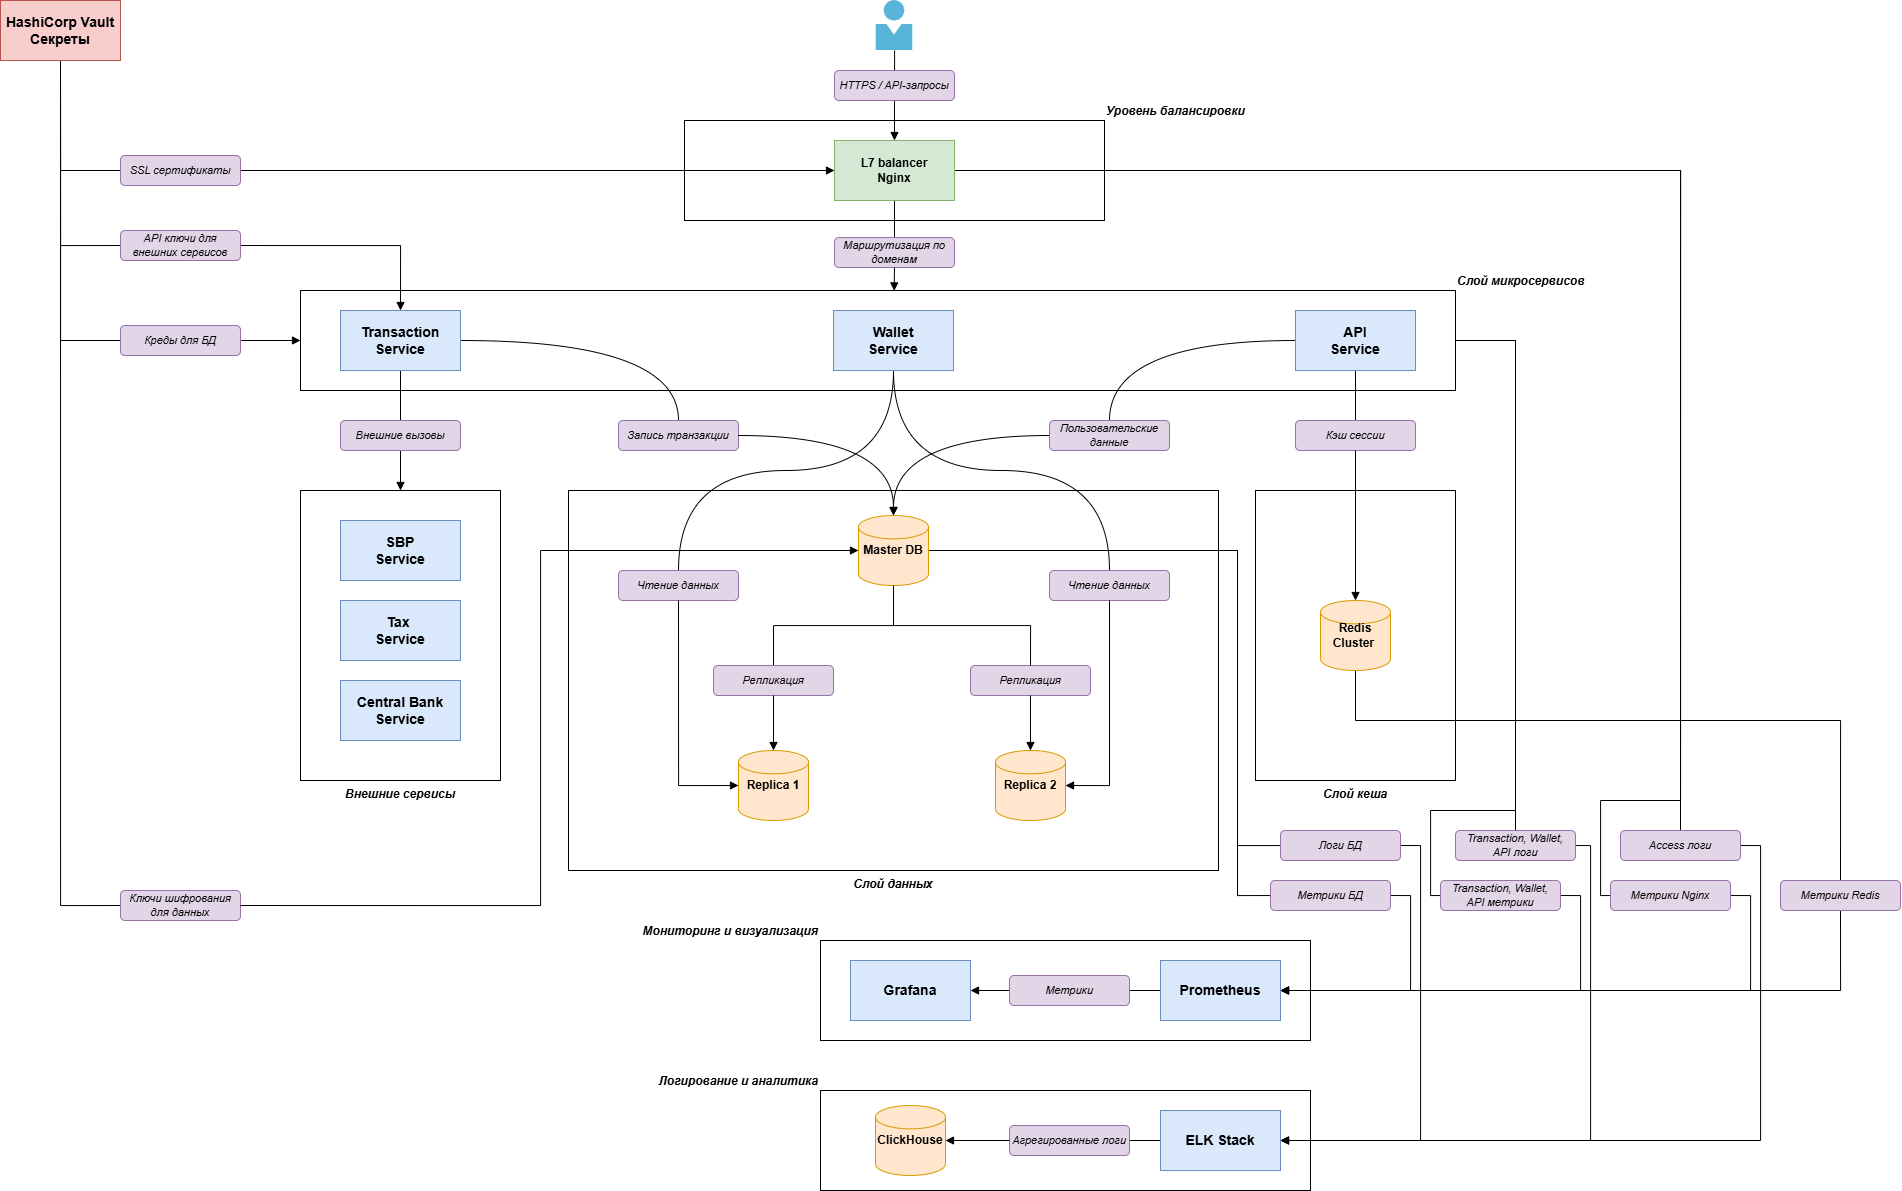
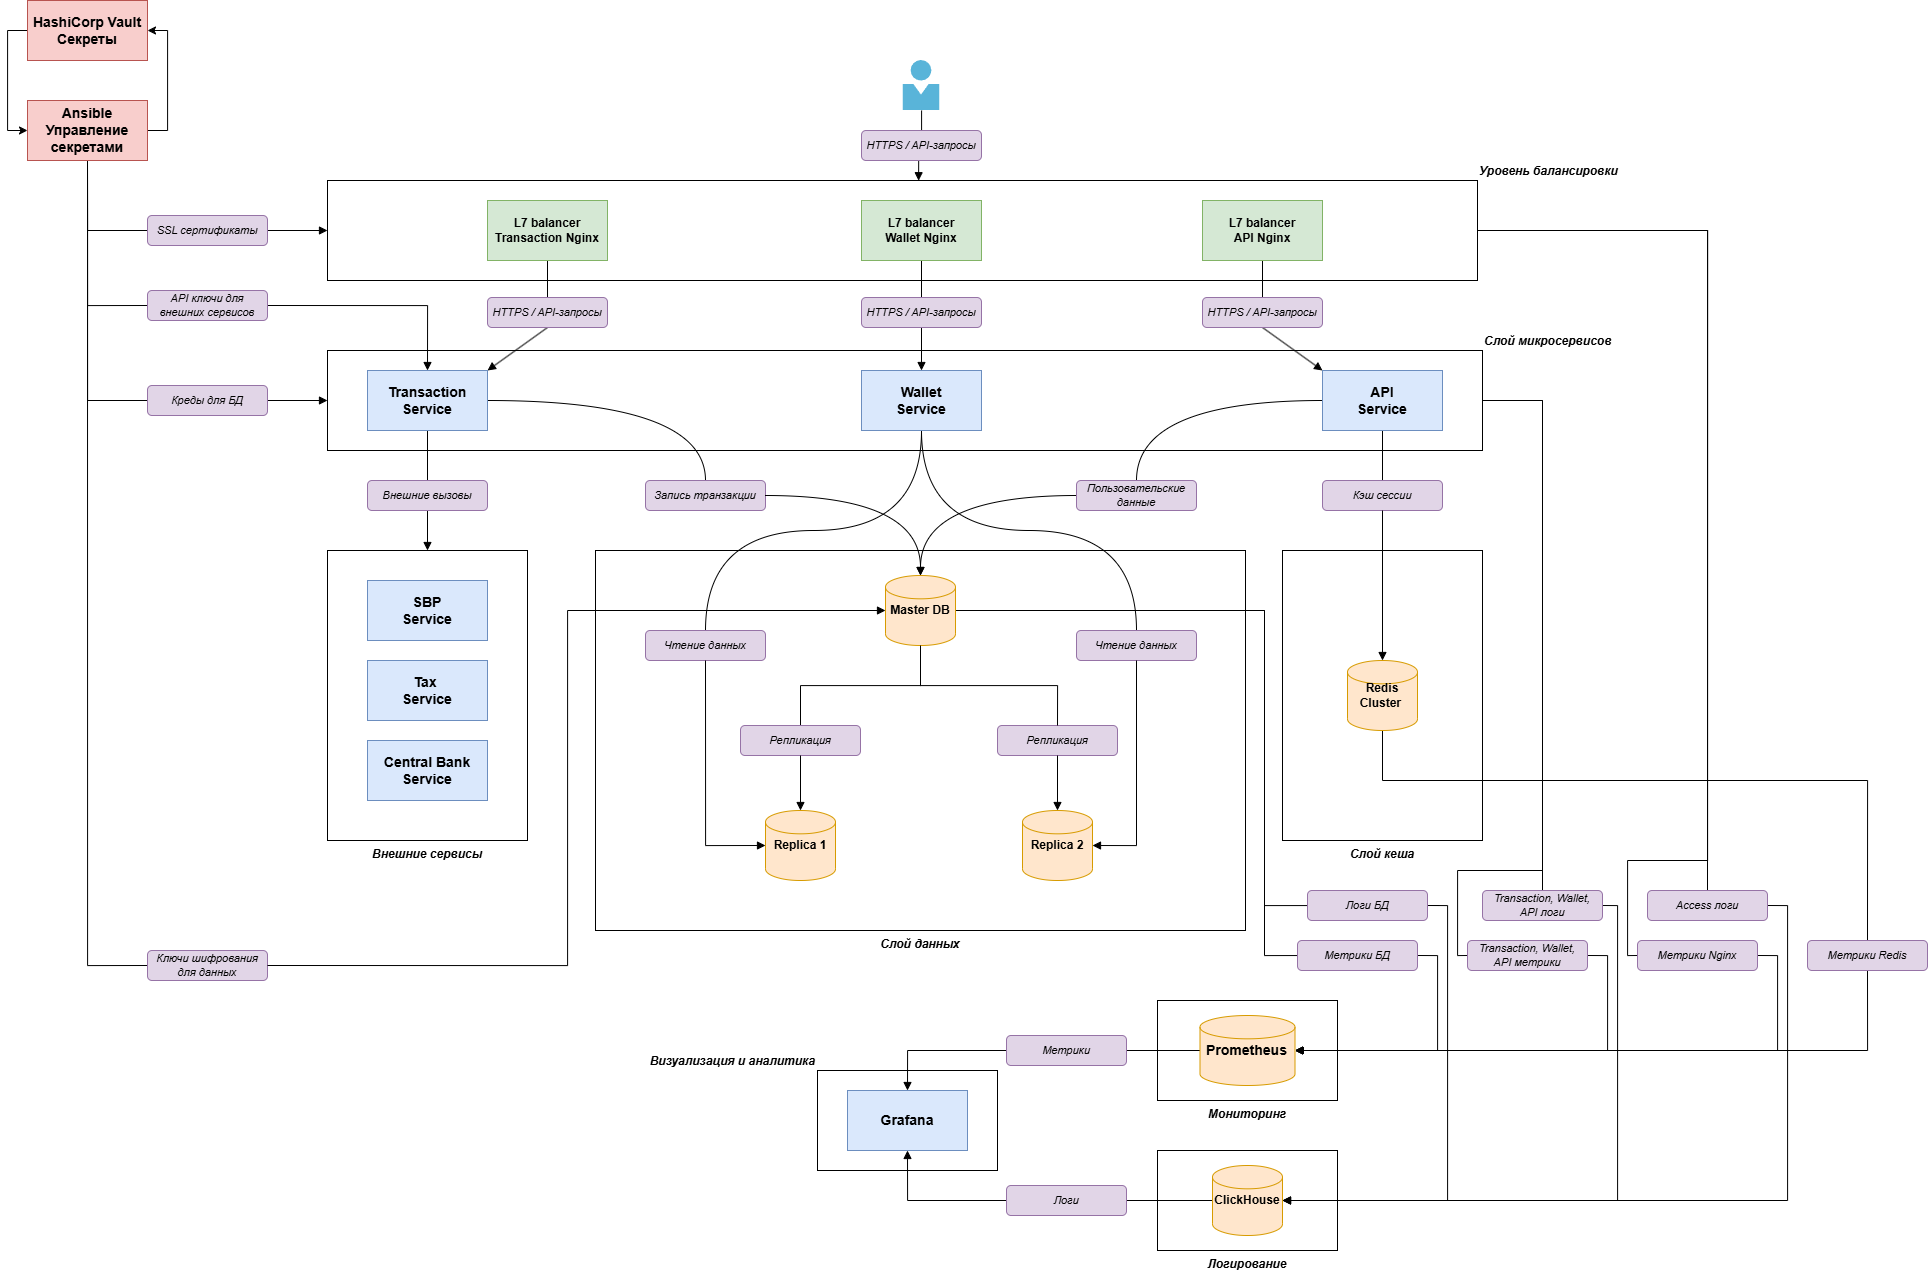
correct

diff --git a/README.md b/README.md
@@ -661,7 +661,7 @@ NGINX-сервера на домен, 8-ядерные | 17 ядер на сер
 | Технология | Область применения | Мотивационная часть |
 |------------|-------------------|---------------------|
 | **Go** | микросервисы Backend'а `wallet`, `transaction`, `api` | Высокая производительность при [12 662 RPS](#rps-requests-per-second), эффективное управление памятью, асинхронность (встроенные горутины для параллельной обработки транзакций) |
-| **Java/Kotlin** | Мобильные приложения (Android) | Стабильность, богатая экосистема библиотек |
+| **Kotlin** | Мобильные приложения (Android) | Стабильность, богатая экосистема библиотек |
 | **Swift** | Мобильные приложения (iOS) | Интеграция с iOS экосистемой |
 | **TypeScript** | Web-интерфейс | Статическая типизация, интеграция с React и Next.js |
 | **PostgreSQL** | Данные `users`, `accounts`, `transactions`, `deposits` | ACID-транзакции для финансовых операций, поддержка шардинга и 2PC |
@@ -680,16 +680,15 @@ NGINX-сервера на домен, 8-ядерные | 17 ядер на сер
 
 | Компонент системы | Способы резервирования |
 |-------------------|------------------------|
-| **L7 Балансировщики (NGINX)** | - **Кластеризация**: Active-Active кластер с N+1 репликами в рамках ДЦ [[27]](#источники)<br>- **Распределение**: По availability-зонам с Anycast BGP балансировкой трафика<br>- **Отказоустойчивость**: Автоматическое переключение трафика при отказе зоны<br>- **Защита**: Rate limiting для предотвращения перегрузки<br>- **Мониторинг**: Health checks с автоматическим исключением и рестартом неработающих нод |
-| **Сервера приложений (микросервисы)** | - **Оркестрация**: Kubernetes ReplicaSet с репликами на сервис<br>- **Управление нагрузкой**: Автомасштабирование по метрикам CPU и памяти<br>- **Безопасное завершение**: Graceful Shutdown для сохранения целостности данных<br>- **Деградация**: Graceful Degradation при частичных отказах<br>- **Самовосстановление**: Health checks с автоматическим рестартом контейнеров |
-| **Базы данных PostgreSQL** | - **Репликация**: Master + 2 реплики<br>- **Резервное копирование**: WAL + полные снепшоты |
-| **Кэш Redis (сессии)** | - **Кластеризация**: Redis Cluster с архитектурой master-slave<br>- **Синхронизация**: Репликация в реальном времени между узлами<br>- **Персистентность**: Комбинирование RDB и AOF для сохранения данных |
-| **Дата-центры** | - **Инфраструктура**: Tier-4 архитектура<br>- **Сети**: Избыточная схема сети<br>- **Энергоснабжение**: Схема подачи питания<br>- **Охлаждение**: Избыточная система охлаждения [(приложение D)](#приложение-d)<br>- **География**: Стратегическое физическое положение для минимизации рисков |
+| **L7 Балансировщики (NGINX)** | - **Распределение**: Active-Active кластер с N+1 репликами по трём availability-зонам с Anycast BGP балансировкой трафика [[27]](#источники)<br>- **Отказоустойчивость**: Автоматическое переключение трафика при отказе зоны<br>- **Защита**: Rate limiting для предотвращения перегрузки<br>- **Мониторинг**: Health checks с автоматическим исключением и рестартом неработающих нод |
+| **Сервера приложений (микросервисы)** | - **Оркестрация**: Kubernetes ReplicaSet с N+1 по трём availability-зонам репликами на сервис<br>- **Управление нагрузкой**: Автомасштабирование по метрикам CPU и памяти<br>- **Безопасное завершение**: Graceful Shutdown для сохранения целостности данных<br>- **Деградация**: Graceful Degradation при частичных отказах<br>- **Самовосстановление**: Health checks с автоматическим рестартом контейнеров |
+| **Базы данных PostgreSQL** | - **Оркестрация**: Patroni для автоматического управления кластером<br>- **Доступность**: реверс-проксёй Odyssey обслуживать много клиентов, используя небольшой пул соединений к БД<br>- **Репликация**: Master + 2 реплики<br>- **Резервное копирование**: WAL + полные снепшоты |
+| **Кэш Redis (сессии)** | - **Оркестрация**: Redis Sentinel для мониторинга и автоматического failover<br>- **Кластеризация**: Redis Cluster с архитектурой master-slave<br>- **Синхронизация**: Репликация в реальном времени между узлами<br>- **Персистентность**: Комбинирование RDB и AOF для сохранения данных |
 
 **Дополнительные механизмы обеспечения надежности:**
-- **Мониторинг**: Комплексный сбор метрик через Prometheus с визуализацией в Grafana
-- **Аналитика**: Централизованное логирование для выявления и анализа инцидентов
-- **Тестирование**: Регулярные chaos-тесты для проверки отказоустойчивости
+- **Мониторинг**: Комплексный сбор метрик через Prometheus с визуализацией в Grafana и настройка Alert Manager в случае аварий
+- **Аналитика**: Централизованное логирование с помощью сквозной трассировки Trace ID для выявления и анализа инцидентов
+- **Тестирование**: Регулярные chaos-тесты для проверки отказоустойчивости и учения команды по аварийным ситуациям
 
 ### Схема проекта
 
